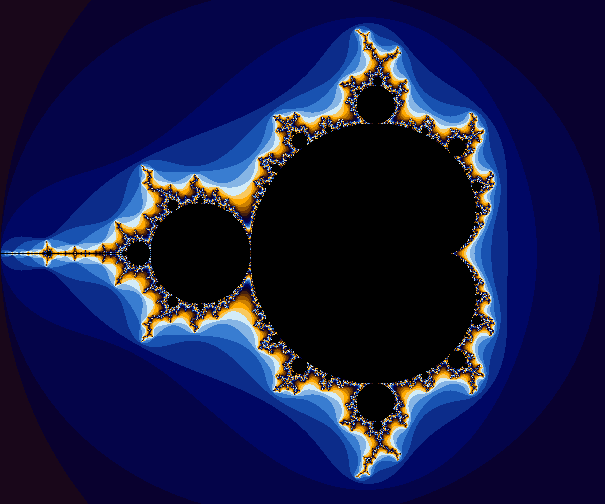
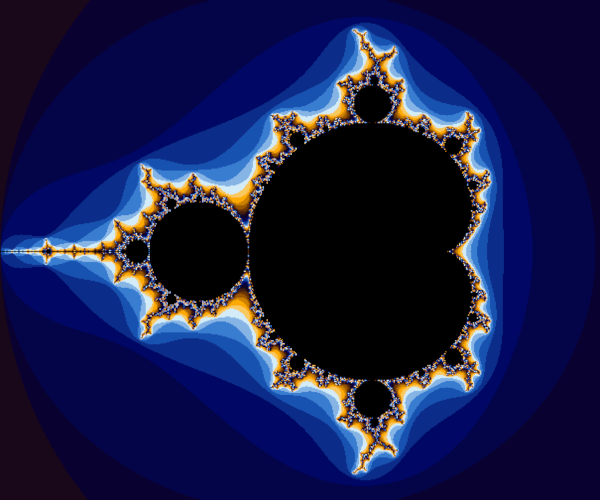
Implement julia set

diff --git a/julia.go b/julia.go
@@ -1,0 +1,56 @@
+package main
+
+import "math/cmplx"
+
+func generateJulia(c complex128, channel chan<- Chunk, width, height, chunkWidth, chunkHeight int, maxIterations int64) {
+	index := 0
+	for x := 0; x < width; x += chunkWidth {
+		for y := 0; y < height; y += chunkHeight {
+			toX := x + chunkWidth
+			if toX >= width {
+				toX = width
+			}
+			toY := y + chunkHeight
+			if toY >= height {
+				toY = height
+			}
+
+			go generateJuliaChunk(index, c, x, y, toX, toY, width, height, channel, maxIterations)
+			index++
+		}
+	}
+}
+
+// generate a chunk of the julia set from (fromX, fromY) (inclusive) to (toX, toY) (exclusive) and send the result through channel
+func generateJuliaChunk(index int, c complex128, fromX, fromY, toX, toY, width, height int, channel chan<- Chunk, maxIterations int64) {
+	points := make([]Point, 0, (toX-fromX)*(toY-fromY))
+	for x := fromX; x < toX; x++ {
+		for y := fromY; y < toY; y++ {
+			points = append(points, Point{
+				X:          x,
+				Y:          y,
+				Iterations: calculateJuliaPoint(c, x, y, width, height, maxIterations),
+			})
+		}
+	}
+
+	channel <- Chunk{
+		Index:  index,
+		Points: points,
+	}
+}
+
+func calculateJuliaPoint(c complex128, winX, winY, winWidth, winHeight int, maxIterations int64) int64 {
+	iteration := int64(0)
+
+	z := complex(mapFloat(float64(winX), 0, float64(winWidth), -2, 2), mapFloat(float64(winY), 0, float64(winHeight), -2, 2))
+	zsquared := z * z
+
+	for cmplx.Abs(zsquared) <= 4 && iteration < maxIterations {
+		z = zsquared + c
+		zsquared = z * z
+		iteration++
+	}
+
+	return iteration
+}

diff --git a/main.go b/main.go
@@ -21,7 +21,7 @@ const windowWidth = 800
 const windowHeight = 800
 const chunkWidth = 80
 const chunkHeight = 80
-const maxIterations = 1000
+const maxIterations = 500
 
 var colors = []color.RGBA{
 	rl.NewColor(66, 30, 15, 255),
@@ -72,7 +72,9 @@ func main() {
 	rl.InitWindow(int32(windowWidth), int32(windowHeight), "Fractals")
 
 	channel := make(chan Chunk, (windowWidth/chunkWidth)*(windowHeight/chunkHeight))
-	generateMandelbrot(channel, int(windowWidth), int(windowHeight), chunkWidth, chunkHeight, maxIterations)
+
+	// generateMandelbrot(channel, int(windowWidth), int(windowHeight), chunkWidth, chunkHeight, maxIterations)
+	generateJulia(-0.1+0.65i, channel, int(windowWidth), int(windowHeight), chunkWidth, chunkHeight, maxIterations)
 
 	for !rl.WindowShouldClose() {
 		rl.BeginDrawing()

diff --git a/README.md b/README.md
@@ -7,6 +7,9 @@ An application written in Go to generate fractals like the [Mandelbrot set](http
 ### Mandelbrot set
 ![](images/mandelbrot.png "Mandelbrot set")
 
+### Julia set
+![](images/julia.png "Julia set")
+
 ## License
 
 This program is free software: you can redistribute it and/or modify
